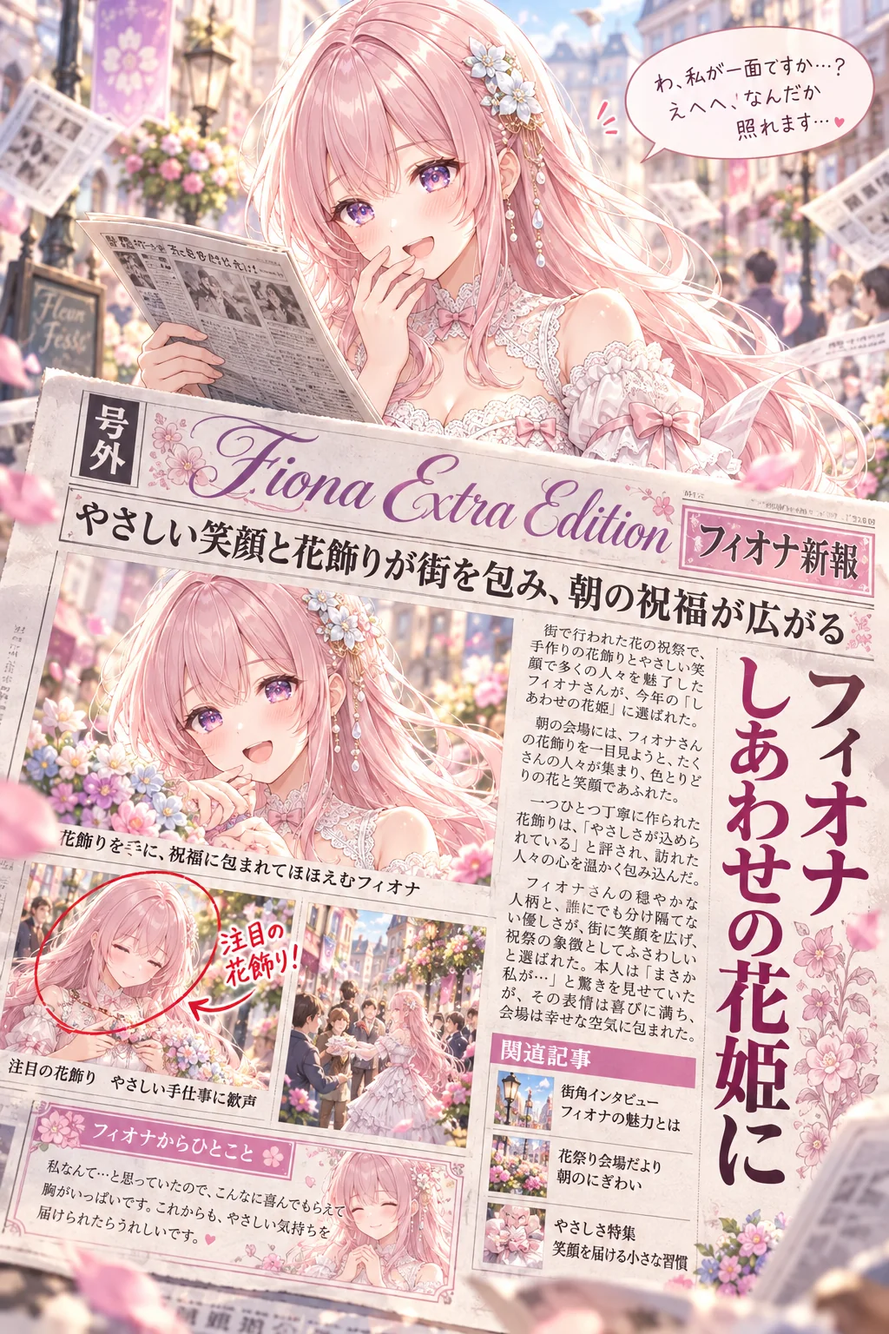
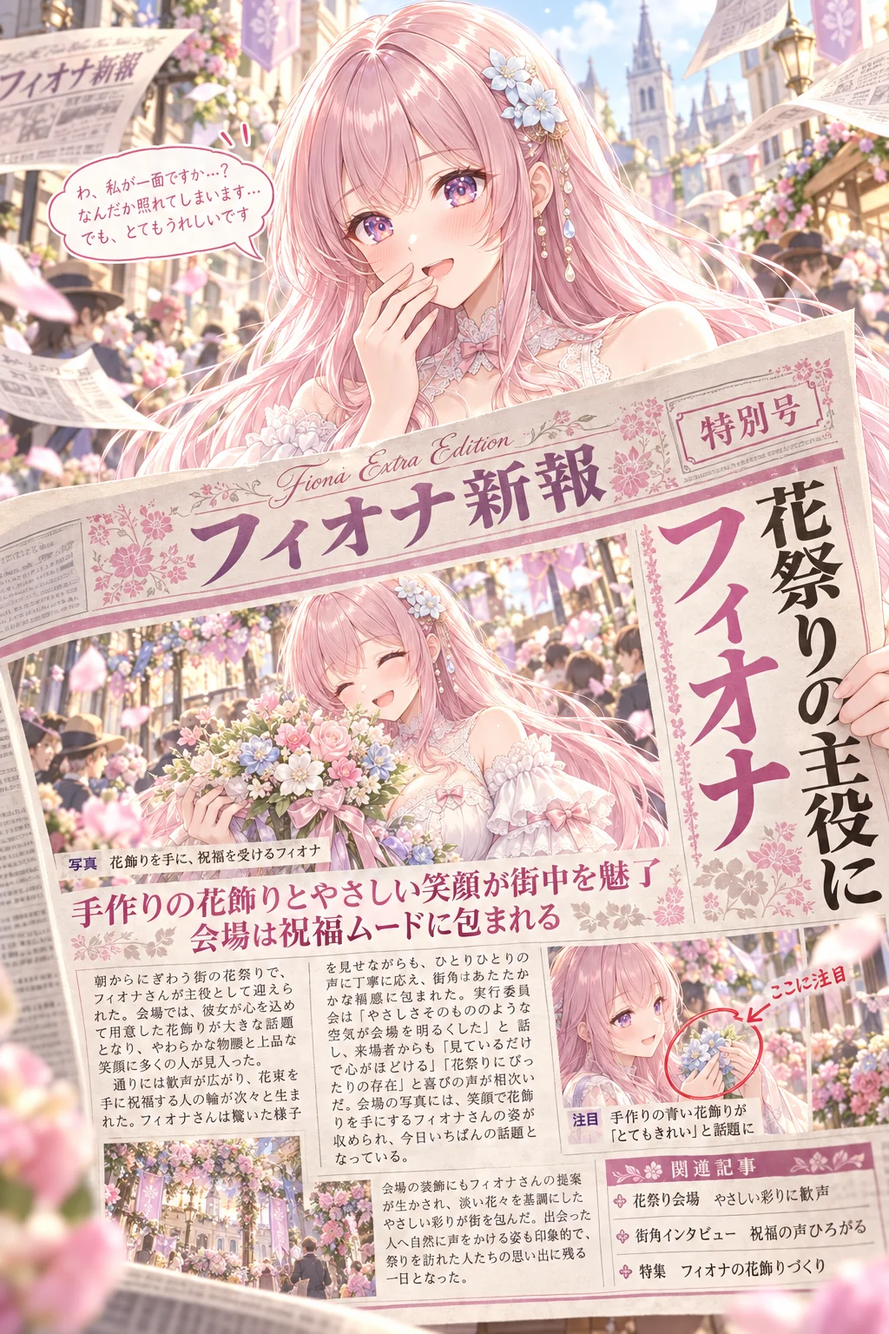
配布 10/18 号外：フィオナ作例を焼き直し3回目（手・日付なし）に差し替え

diff --git a/prompts/2026-10-18-gpt-j177g6tr.html b/prompts/2026-10-18-gpt-j177g6tr.html
@@ -45,7 +45,7 @@
 @media(max-width:560px){.ps-ba{grid-template-columns:1fr}.ps-ba .arr{transform:rotate(90deg);text-align:center}.ps-vars,.ps-vars tbody,.ps-vars tr,.ps-vars th,.ps-vars td{display:block;width:auto;white-space:normal}.ps-vars tr:first-child{display:none}.ps-vars tr{border-bottom:1px solid var(--ps-line);padding:4px 0}.ps-vars th,.ps-vars td{border:0;padding:6px 12px}}
 .ps{overflow-wrap:anywhere}.ps-vars td,.ps-vars th{overflow-wrap:anywhere}.ps img{max-width:100%}
 </style><!--ps-meta {"date": "2026-10-18", "title": "うちの子が一面トップの「号外」ができるプロンプト", "kind": "gpt", "nsfw": false, "summary": "キャラの絵と名前を入れるだけで、その子が一面トップの「号外」に。見出しも記事も写真のキャプションも、AIがその子に合わせて書いてくれます。", "thumb": "img/2026-10-18-gpt-j177g6tr/ex1.webp"}-->
-</head><body class="decor-page decor-bubble"><div class="page-decor" aria-hidden="true"><div class="decor-layer decor-bubble-layer"><i></i><i></i><i></i><i></i><i></i><i></i><i></i><i></i><i></i><i></i><i></i><i></i></div></div><header class="site-header"><div class="container"><a class="brand" href="../index.html"><span class="brand-script">Lupinus</span><span class="brand-sub">AI Bloom Sisters</span></a><button class="menu-toggle" aria-label="menu" onclick="document.getElementById('nav').classList.toggle('open')">≡</button><nav class="nav" id="nav"><a href="../index.html">Home</a><a href="../about.html">About</a><a href="../portfolio.html">Portfolio</a><a href="../gallery.html">Gallery</a><a href="../blog/index.html" class="active">Blog</a><a href="../sns.html">SNS</a><a href="../coming-soon.html">Contact</a></nav></div></header><main class="article"><header class="article-header"><div class="date">2026-10-18<span class="day-chip">プロンプト配布</span></div><h1>うちの子が一面トップの「号外」ができるプロンプト</h1></header><div class="article-body"><div class="ps"><p><span class="ps-badge">GPT-image-2 用</span><span class="ps-badge">2026-10-18</span></p><p class="ps-lead">ChatGPT（GPT-image-2）に自分のキャラの絵を1枚渡して、この文を貼るだけ。朝の街角に刷りたての号外が舞って、その一面トップを飾っているのは、うちの子。新聞の名前、縦書きの大見出し、記事、写真のキャプション、関連記事まで、AIがキャラを読み取って「今日その子に起きたうれしい出来事」を書いてくれます。焼くたびにニュースが変わるので、毎日ちがう号外に。名前のほかは空欄でもOK。色・服・背景・ポーズ、号外のニュースの中身を決めたいときは、その欄に書くだけです。</p><nav class="ps-toc" aria-label="目次"><p>📑 目次</p><ol><li><a href="#sec1">作例</a></li><li><a href="#sec2">3人のおしゃべり（うちの子の号外）</a></li><li><a href="#sec3">使い方（3ステップ）</a></li><li><a href="#sec4">プロンプト</a></li><li><a href="#sec5">書くところ</a></li><li><a href="#sec6">（おまけ）元絵を綺麗にしておくと、もっと綺麗に</a></li><li><a href="#sec7">メモ</a></li><li><a href="#sec8">配布ルール</a></li></ol></nav><h2 id="sec1">作例</h2><div class="ps-ex"><figure><img src="img/2026-10-18-gpt-j177g6tr/ex1.webp" alt="名前「フィオナ」だけ（ほかの欄は空欄）＝新聞の名前は「フィオナ新報」、大見出しは「フィオナ しあわせの花姫に」。街の祝祭で『しあわせの花姫』に選ばれた、という記事に、赤丸の「注目の花飾り！」の注釈まで。吹き出しは「わ、私が一面ですか…？ えへへ、なんだか照れます…」" loading="lazy"><figcaption>名前「フィオナ」だけ（ほかの欄は空欄）＝新聞の名前は「フィオナ新報」、大見出しは「フィオナ しあわせの花姫に」。街の祝祭で『しあわせの花姫』に選ばれた、という記事に、赤丸の「注目の花飾り！」の注釈まで。吹き出しは「わ、私が一面ですか…？ えへへ、なんだか照れます…」</figcaption></figure><figure><img src="img/2026-10-18-gpt-j177g6tr/ex2.webp" alt="名前「Iris」・テーマカラー「ひまわりの黄色とオレンジ」・ポーズ・追加の指示「吹き出しは一人称「あたし」で、元気なタメ口に」（服・背景は空欄）＝ロゴは「Iris Extra Edition」、新聞の名前はカタカナで「アイリス新報」。ニュースは「朝のひまわりフェスタでサプライズステージが大成功」。吹き出しは「えっ、あたしが一面！？ うれしすぎるんだけど！」" loading="lazy"><figcaption>名前「Iris」・テーマカラー「ひまわりの黄色とオレンジ」・ポーズ・追加の指示「吹き出しは一人称「あたし」で、元気なタメ口に」（服・背景は空欄）＝ロゴは「Iris Extra Edition」、新聞の名前はカタカナで「アイリス新報」。ニュースは「朝のひまわりフェスタでサプライズステージが大成功」。吹き出しは「えっ、あたしが一面！？ うれしすぎるんだけど！」</figcaption></figure><figure><img src="img/2026-10-18-gpt-j177g6tr/ex3.webp" alt="名前「ルピナス」・背景「夜のお祭りの屋台の並ぶ通り」・ポーズ・追加の指示「号外のニュースはお料理コンテストで優勝したこと。吹き出しは一人称「わたし」で、やさしいお姉さんの話し方に」（ほかの欄は空欄）＝夜店ののれんが並ぶ通りに。大見出しは「ルピナス 屋台料理コンテストで優勝」、優勝作は「月あかりの花しらべシチュー」" loading="lazy"><figcaption>名前「ルピナス」・背景「夜のお祭りの屋台の並ぶ通り」・ポーズ・追加の指示「号外のニュースはお料理コンテストで優勝したこと。吹き出しは一人称「わたし」で、やさしいお姉さんの話し方に」（ほかの欄は空欄）＝夜店ののれんが並ぶ通りに。大見出しは「ルピナス 屋台料理コンテストで優勝」、優勝作は「月あかりの花しらべシチュー」</figcaption></figure></div><p style="font-size:.82rem;color:var(--ps-ink)">※作例の画像の転載・保存しての再配布はご遠慮ください。</p><h2 id="sec2">3人のおしゃべり（うちの子の号外）</h2><div class="ps-chat"><img src="img/2026-10-18-gpt-j177g6tr/talk_fiona_shy.webp" alt="フィオナ" loading="lazy"><div><div class="who">フィオナ</div><div class="bub">あの……街の人たちが、みんな私の写真の載った紙を持っているんですけれど……</div></div></div><div class="ps-chat r"><img src="img/2026-10-18-gpt-j177g6tr/talk_lupinus_surprised.webp" alt="ルピナス" loading="lazy"><div><div class="who">ルピナス</div><div class="bub">号外〜、号外だよ〜！ 本日の一面トップは、なんと、フィオナ！</div></div></div><div class="ps-chat r"><img src="img/2026-10-18-gpt-j177g6tr/talk_iris_devious.webp" alt="アイリス" loading="lazy"><div><div class="who">アイリス</div><div class="bub">はいはい、記者会見はじめまーす！ 本日の主役のフィオナ、一面に載った今のお気持ちは！？</div></div></div><div class="ps-chat"><img src="img/2026-10-18-gpt-j177g6tr/talk_fiona_happy.webp" alt="フィオナ" loading="lazy"><div><div class="who">フィオナ</div><div class="bub">えっと……名前だけ書いたら「フィオナ新報」ができていて。街のお祭りで『しあわせの花姫』に選ばれた、なんだそうです</div></div></div><div class="ps-chat r"><img src="img/2026-10-18-gpt-j177g6tr/talk_lupinus_happy.webp" alt="ルピナス" loading="lazy"><div><div class="who">ルピナス</div><div class="bub">写真のキャプションまで「花飾りを手に、祝福に包まれてほほえむフィオナ」だって。記者さん、よく見てるね</div></div></div><div class="ps-chat r"><img src="img/2026-10-18-gpt-j177g6tr/talk_iris_smug.webp" alt="アイリス" loading="lazy"><div><div class="who">アイリス</div><div class="bub">あたしのも見て！ 「Iris」ってアルファベットで書いたのに、新聞の名前はちゃんと「アイリス新報」なの</div></div></div><div class="ps-chat"><img src="img/2026-10-18-gpt-j177g6tr/talk_fiona_surprised.webp" alt="フィオナ" loading="lazy"><div><div class="who">フィオナ</div><div class="bub">ロゴは英語で、日本語のところはカタカナ……きれいに分けてくれるんですね</div></div></div><div class="ps-chat r"><img src="img/2026-10-18-gpt-j177g6tr/talk_iris_laugh.webp" alt="アイリス" loading="lazy"><div><div class="who">アイリス</div><div class="bub">ニュースは「ひまわりフェスタのサプライズステージが大成功」！ テーマカラーの黄色とオレンジで、紙面がまぶしいんだから</div></div></div><div class="ps-chat r"><img src="img/2026-10-18-gpt-j177g6tr/talk_lupinus_smug.webp" alt="ルピナス" loading="lazy"><div><div class="who">ルピナス</div><div class="bub">わたしは背景を「夜のお祭りの屋台の並ぶ通り」にして、ポーズの欄に「お料理コンテストで優勝」って書いたの</div></div></div><div class="ps-chat"><img src="img/2026-10-18-gpt-j177g6tr/talk_fiona_happy.webp" alt="フィオナ" loading="lazy"><div><div class="who">フィオナ</div><div class="bub">お姉ちゃんの大見出しは「屋台料理コンテストで優勝」でした。優勝作の「月あかりの花しらべシチュー」、食べてみたいです</div></div></div><div class="ps-chat r"><img src="img/2026-10-18-gpt-j177g6tr/talk_iris_surprised.webp" alt="アイリス" loading="lazy"><div><div class="who">アイリス</div><div class="bub">やきそばとたこ焼きの屋台に囲まれて優勝してる……！ お姉ちゃん、いつの間にそんなに強くなったの</div></div></div><div class="ps-chat r"><img src="img/2026-10-18-gpt-j177g6tr/talk_lupinus_wink.webp" alt="ルピナス" loading="lazy"><div><div class="who">ルピナス</div><div class="bub">号外の中だけの話だよ。でも、ニュースは欄に書けば好きに決められるからね</div></div></div><div class="ps-chat"><img src="img/2026-10-18-gpt-j177g6tr/talk_fiona_thinking.webp" alt="フィオナ" loading="lazy"><div><div class="who">フィオナ</div><div class="bub">書かなければ、AIがその子に合いそうなうれしい出来事を考えてくれます。焼くたびにニュースが変わるので、毎日ちがう号外になりますね</div></div></div><div class="ps-chat r"><img src="img/2026-10-18-gpt-j177g6tr/talk_iris_laugh.webp" alt="アイリス" loading="lazy"><div><div class="who">アイリス</div><div class="bub">じゃあ明日は「アイリス、朝ごはんを三杯おかわり」の号外にしよっと！</div></div></div><div class="ps-chat r"><img src="img/2026-10-18-gpt-j177g6tr/talk_lupinus_exasperated.webp" alt="ルピナス" loading="lazy"><div><div class="who">ルピナス</div><div class="bub">それは号外を出すほどのニュースじゃないかな……</div></div></div><div class="ps-chat"><img src="img/2026-10-18-gpt-j177g6tr/talk_fiona_laugh.webp" alt="フィオナ" loading="lazy"><div><div class="who">フィオナ</div><div class="bub">ふふ。では三人の号外を並べて、一面トップの記念撮影をしましょうか</div></div></div><h2 id="sec3">使い方（3ステップ）</h2><ol class="ps-steps"><li>ChatGPT を開いて、画像を作れるモード（GPT-image-2）にする</li><li>自分のキャラの絵を1枚だけ添付する（自分の絵・使ってよい画像だけ。いつもの絵のままでOK。下の「おまけ」で元絵を作った人は元絵を）</li><li>下のプロンプトをワンタップでコピーして、いちばん上の「▼ ここに書く」の欄（色の付いたところ）にキャラの名前などを書いて送信する（名前のほかは空欄でもOK。服・背景・ポーズを変えたいときは、その欄に書くだけ）</li></ol><h2 id="sec4">プロンプト</h2><div class="ps-note" style="margin-bottom:12px"><b>書くのは「▼ ここに書く」の欄だけ</b><ul><li><mark style="background:var(--ps-soft);color:var(--ps-a);font-weight:700;border-bottom:2px dashed var(--ps-a);padding:0 4px">色の付いたところ</mark>（「：」のうしろ）に書くだけ。【 】は消さずにそのまま残してね</li><li>下の文章に出てくる【キャラの名前】などは書き換えなくてOK（AIが上の欄を読んでくれます）</li><li>任意の欄は空のままでも大丈夫（おまかせになります）</li><li>👗 <b>服・アクセサリー／背景／ポーズを変えたいときは、その欄に書くだけ</b>。欄に書いた内容が下の文章より優先されるように作ってあるので、下の文章は書き換えなくてOK。空欄なら、服とアクセサリーは添付した絵のまま、背景とポーズは下の文章のとおりになります。顔立ち・髪型・髪色・目の色は、いつも添付した絵のままです</li><li>💡 添付した絵と違う服にしたいときは、色と形まで具体的に書くと混ざりにくくなります（例：「白いニット」より「白いケーブル編みのニットと紺のプリーツスカート」）</li><li>🚫 添付する絵は<b>自分のキャラ・自分が権利を持つ画像だけ</b>。版権キャラ・他の人のキャラの画像は固く禁止です（下の「配布ルール」）</li></ul></div><div class="ps-box"><button class="ps-copy" type="button" data-target="ps-prompt">📋 ワンタップでコピー</button><p style="margin:0 0 8px;font-size:.82rem;color:var(--ps-a)">プロンプト</p><pre>添付した画像のキャラクターを読み取って、そのキャラが一面トップを飾る新聞の「号外」のイラストを作ってください。
+</head><body class="decor-page decor-bubble"><div class="page-decor" aria-hidden="true"><div class="decor-layer decor-bubble-layer"><i></i><i></i><i></i><i></i><i></i><i></i><i></i><i></i><i></i><i></i><i></i><i></i></div></div><header class="site-header"><div class="container"><a class="brand" href="../index.html"><span class="brand-script">Lupinus</span><span class="brand-sub">AI Bloom Sisters</span></a><button class="menu-toggle" aria-label="menu" onclick="document.getElementById('nav').classList.toggle('open')">≡</button><nav class="nav" id="nav"><a href="../index.html">Home</a><a href="../about.html">About</a><a href="../portfolio.html">Portfolio</a><a href="../gallery.html">Gallery</a><a href="../blog/index.html" class="active">Blog</a><a href="../sns.html">SNS</a><a href="../coming-soon.html">Contact</a></nav></div></header><main class="article"><header class="article-header"><div class="date">2026-10-18<span class="day-chip">プロンプト配布</span></div><h1>うちの子が一面トップの「号外」ができるプロンプト</h1></header><div class="article-body"><div class="ps"><p><span class="ps-badge">GPT-image-2 用</span><span class="ps-badge">2026-10-18</span></p><p class="ps-lead">ChatGPT（GPT-image-2）に自分のキャラの絵を1枚渡して、この文を貼るだけ。朝の街角に刷りたての号外が舞って、その一面トップを飾っているのは、うちの子。新聞の名前、縦書きの大見出し、記事、写真のキャプション、関連記事まで、AIがキャラを読み取って「今日その子に起きたうれしい出来事」を書いてくれます。焼くたびにニュースが変わるので、毎日ちがう号外に。名前のほかは空欄でもOK。色・服・背景・ポーズ、号外のニュースの中身を決めたいときは、その欄に書くだけです。</p><nav class="ps-toc" aria-label="目次"><p>📑 目次</p><ol><li><a href="#sec1">作例</a></li><li><a href="#sec2">3人のおしゃべり（うちの子の号外）</a></li><li><a href="#sec3">使い方（3ステップ）</a></li><li><a href="#sec4">プロンプト</a></li><li><a href="#sec5">書くところ</a></li><li><a href="#sec6">（おまけ）元絵を綺麗にしておくと、もっと綺麗に</a></li><li><a href="#sec7">メモ</a></li><li><a href="#sec8">配布ルール</a></li></ol></nav><h2 id="sec1">作例</h2><div class="ps-ex"><figure><img src="img/2026-10-18-gpt-j177g6tr/ex1.webp" alt="名前「フィオナ」だけ（ほかの欄は空欄）＝新聞の名前は「フィオナ新報」、大見出しは「花祭りの主役に フィオナ」。手作りの花飾りとやさしい笑顔が街中を魅了した、という記事に、赤丸の「ここに注目」の注釈まで。吹き出しは「わ、私が一面ですか…？ なんだか照れてしまいます… でも、とてもうれしいです」" loading="lazy"><figcaption>名前「フィオナ」だけ（ほかの欄は空欄）＝新聞の名前は「フィオナ新報」、大見出しは「花祭りの主役に フィオナ」。手作りの花飾りとやさしい笑顔が街中を魅了した、という記事に、赤丸の「ここに注目」の注釈まで。吹き出しは「わ、私が一面ですか…？ なんだか照れてしまいます… でも、とてもうれしいです」</figcaption></figure><figure><img src="img/2026-10-18-gpt-j177g6tr/ex2.webp" alt="名前「Iris」・テーマカラー「ひまわりの黄色とオレンジ」・ポーズ・追加の指示「吹き出しは一人称「あたし」で、元気なタメ口に」（服・背景は空欄）＝ロゴは「Iris Extra Edition」、新聞の名前はカタカナで「アイリス新報」。ニュースは「朝のひまわりフェスタでサプライズステージが大成功」。吹き出しは「えっ、あたしが一面！？ うれしすぎるんだけど！」" loading="lazy"><figcaption>名前「Iris」・テーマカラー「ひまわりの黄色とオレンジ」・ポーズ・追加の指示「吹き出しは一人称「あたし」で、元気なタメ口に」（服・背景は空欄）＝ロゴは「Iris Extra Edition」、新聞の名前はカタカナで「アイリス新報」。ニュースは「朝のひまわりフェスタでサプライズステージが大成功」。吹き出しは「えっ、あたしが一面！？ うれしすぎるんだけど！」</figcaption></figure><figure><img src="img/2026-10-18-gpt-j177g6tr/ex3.webp" alt="名前「ルピナス」・背景「夜のお祭りの屋台の並ぶ通り」・ポーズ・追加の指示「号外のニュースはお料理コンテストで優勝したこと。吹き出しは一人称「わたし」で、やさしいお姉さんの話し方に」（ほかの欄は空欄）＝夜店ののれんが並ぶ通りに。大見出しは「ルピナス 屋台料理コンテストで優勝」、優勝作は「月あかりの花しらべシチュー」" loading="lazy"><figcaption>名前「ルピナス」・背景「夜のお祭りの屋台の並ぶ通り」・ポーズ・追加の指示「号外のニュースはお料理コンテストで優勝したこと。吹き出しは一人称「わたし」で、やさしいお姉さんの話し方に」（ほかの欄は空欄）＝夜店ののれんが並ぶ通りに。大見出しは「ルピナス 屋台料理コンテストで優勝」、優勝作は「月あかりの花しらべシチュー」</figcaption></figure></div><p style="font-size:.82rem;color:var(--ps-ink)">※作例の画像の転載・保存しての再配布はご遠慮ください。</p><h2 id="sec2">3人のおしゃべり（うちの子の号外）</h2><div class="ps-chat"><img src="img/2026-10-18-gpt-j177g6tr/talk_fiona_shy.webp" alt="フィオナ" loading="lazy"><div><div class="who">フィオナ</div><div class="bub">あの……街の人たちが、みんな私の写真の載った紙を持っているんですけれど……</div></div></div><div class="ps-chat r"><img src="img/2026-10-18-gpt-j177g6tr/talk_lupinus_surprised.webp" alt="ルピナス" loading="lazy"><div><div class="who">ルピナス</div><div class="bub">号外〜、号外だよ〜！ 本日の一面トップは、なんと、フィオナ！</div></div></div><div class="ps-chat r"><img src="img/2026-10-18-gpt-j177g6tr/talk_iris_devious.webp" alt="アイリス" loading="lazy"><div><div class="who">アイリス</div><div class="bub">はいはい、記者会見はじめまーす！ 本日の主役のフィオナ、一面に載った今のお気持ちは！？</div></div></div><div class="ps-chat"><img src="img/2026-10-18-gpt-j177g6tr/talk_fiona_happy.webp" alt="フィオナ" loading="lazy"><div><div class="who">フィオナ</div><div class="bub">えっと……名前だけ書いたら「フィオナ新報」ができていて。花祭りの主役に選ばれた、なんだそうです</div></div></div><div class="ps-chat r"><img src="img/2026-10-18-gpt-j177g6tr/talk_lupinus_happy.webp" alt="ルピナス" loading="lazy"><div><div class="who">ルピナス</div><div class="bub">写真のキャプションまで「花飾りを手に、祝福を受けるフィオナ」だって。記者さん、よく見てるね</div></div></div><div class="ps-chat r"><img src="img/2026-10-18-gpt-j177g6tr/talk_iris_smug.webp" alt="アイリス" loading="lazy"><div><div class="who">アイリス</div><div class="bub">あたしのも見て！ 「Iris」ってアルファベットで書いたのに、新聞の名前はちゃんと「アイリス新報」なの</div></div></div><div class="ps-chat"><img src="img/2026-10-18-gpt-j177g6tr/talk_fiona_surprised.webp" alt="フィオナ" loading="lazy"><div><div class="who">フィオナ</div><div class="bub">ロゴは英語で、日本語のところはカタカナ……きれいに分けてくれるんですね</div></div></div><div class="ps-chat r"><img src="img/2026-10-18-gpt-j177g6tr/talk_iris_laugh.webp" alt="アイリス" loading="lazy"><div><div class="who">アイリス</div><div class="bub">ニュースは「ひまわりフェスタのサプライズステージが大成功」！ テーマカラーの黄色とオレンジで、紙面がまぶしいんだから</div></div></div><div class="ps-chat r"><img src="img/2026-10-18-gpt-j177g6tr/talk_lupinus_smug.webp" alt="ルピナス" loading="lazy"><div><div class="who">ルピナス</div><div class="bub">わたしは背景を「夜のお祭りの屋台の並ぶ通り」にして、ポーズの欄に「お料理コンテストで優勝」って書いたの</div></div></div><div class="ps-chat"><img src="img/2026-10-18-gpt-j177g6tr/talk_fiona_happy.webp" alt="フィオナ" loading="lazy"><div><div class="who">フィオナ</div><div class="bub">お姉ちゃんの大見出しは「屋台料理コンテストで優勝」でした。優勝作の「月あかりの花しらべシチュー」、食べてみたいです</div></div></div><div class="ps-chat r"><img src="img/2026-10-18-gpt-j177g6tr/talk_iris_surprised.webp" alt="アイリス" loading="lazy"><div><div class="who">アイリス</div><div class="bub">やきそばとたこ焼きの屋台に囲まれて優勝してる……！ お姉ちゃん、いつの間にそんなに強くなったの</div></div></div><div class="ps-chat r"><img src="img/2026-10-18-gpt-j177g6tr/talk_lupinus_wink.webp" alt="ルピナス" loading="lazy"><div><div class="who">ルピナス</div><div class="bub">号外の中だけの話だよ。でも、ニュースは欄に書けば好きに決められるからね</div></div></div><div class="ps-chat"><img src="img/2026-10-18-gpt-j177g6tr/talk_fiona_thinking.webp" alt="フィオナ" loading="lazy"><div><div class="who">フィオナ</div><div class="bub">書かなければ、AIがその子に合いそうなうれしい出来事を考えてくれます。焼くたびにニュースが変わるので、毎日ちがう号外になりますね</div></div></div><div class="ps-chat r"><img src="img/2026-10-18-gpt-j177g6tr/talk_iris_laugh.webp" alt="アイリス" loading="lazy"><div><div class="who">アイリス</div><div class="bub">じゃあ明日は「アイリス、朝ごはんを三杯おかわり」の号外にしよっと！</div></div></div><div class="ps-chat r"><img src="img/2026-10-18-gpt-j177g6tr/talk_lupinus_exasperated.webp" alt="ルピナス" loading="lazy"><div><div class="who">ルピナス</div><div class="bub">それは号外を出すほどのニュースじゃないかな……</div></div></div><div class="ps-chat"><img src="img/2026-10-18-gpt-j177g6tr/talk_fiona_laugh.webp" alt="フィオナ" loading="lazy"><div><div class="who">フィオナ</div><div class="bub">ふふ。では三人の号外を並べて、一面トップの記念撮影をしましょうか</div></div></div><h2 id="sec3">使い方（3ステップ）</h2><ol class="ps-steps"><li>ChatGPT を開いて、画像を作れるモード（GPT-image-2）にする</li><li>自分のキャラの絵を1枚だけ添付する（自分の絵・使ってよい画像だけ。いつもの絵のままでOK。下の「おまけ」で元絵を作った人は元絵を）</li><li>下のプロンプトをワンタップでコピーして、いちばん上の「▼ ここに書く」の欄（色の付いたところ）にキャラの名前などを書いて送信する（名前のほかは空欄でもOK。服・背景・ポーズを変えたいときは、その欄に書くだけ）</li></ol><h2 id="sec4">プロンプト</h2><div class="ps-note" style="margin-bottom:12px"><b>書くのは「▼ ここに書く」の欄だけ</b><ul><li><mark style="background:var(--ps-soft);color:var(--ps-a);font-weight:700;border-bottom:2px dashed var(--ps-a);padding:0 4px">色の付いたところ</mark>（「：」のうしろ）に書くだけ。【 】は消さずにそのまま残してね</li><li>下の文章に出てくる【キャラの名前】などは書き換えなくてOK（AIが上の欄を読んでくれます）</li><li>任意の欄は空のままでも大丈夫（おまかせになります）</li><li>👗 <b>服・アクセサリー／背景／ポーズを変えたいときは、その欄に書くだけ</b>。欄に書いた内容が下の文章より優先されるように作ってあるので、下の文章は書き換えなくてOK。空欄なら、服とアクセサリーは添付した絵のまま、背景とポーズは下の文章のとおりになります。顔立ち・髪型・髪色・目の色は、いつも添付した絵のままです</li><li>💡 添付した絵と違う服にしたいときは、色と形まで具体的に書くと混ざりにくくなります（例：「白いニット」より「白いケーブル編みのニットと紺のプリーツスカート」）</li><li>🚫 添付する絵は<b>自分のキャラ・自分が権利を持つ画像だけ</b>。版権キャラ・他の人のキャラの画像は固く禁止です（下の「配布ルール」）</li></ul></div><div class="ps-box"><button class="ps-copy" type="button" data-target="ps-prompt">📋 ワンタップでコピー</button><p style="margin:0 0 8px;font-size:.82rem;color:var(--ps-a)">プロンプト</p><pre>添付した画像のキャラクターを読み取って、そのキャラが一面トップを飾る新聞の「号外」のイラストを作ってください。
 号外の見出し、記事、写真のキャプション、関連記事、キャラからのひとことは、キャラの見た目や性格から「今日その子に起きたうれしい出来事」をあなたが考えて書いてください。
 
 ▼ ここに書く（「：」のうしろに書くだけ。【 】は消さずにそのまま。名前だけは必ず書く。ほかの空の欄はおまかせ）
@@ -153,7 +153,7 @@
 ・服のレースやフリル、刺繍、アクセサリーの宝石と金具まで細かく描く
 ・やわらかな光で輪郭をきれいに。上品で透明感のある配色、ハイエンドなアニメイラストの最高品質、超高精細
 ・縦長 2:3
-</textarea></div><div class="ps-note" style="margin-top:12px"><b>うまくいかない時</b><ul><li>元絵は、号外に載ったことに驚いて照れる絵に合わせて、腰から上で口もとに片手を添えて照れ笑いする形にしてあります。</li></ul></div><h2 id="sec7">メモ</h2><ul class="ps-rules"><li>見出し・記事・写真のキャプション・関連記事は、毎回AIがキャラに合わせて考えます（上の3枚でも、ニュースが「街の祝祭のしあわせの花姫」「ひまわりフェスタのステージ」「屋台料理コンテストの優勝」に分かれました）。</li><li>号外のニュースを決めたいときは【ポーズ・追加の指示】に「号外のニュースは〇〇」のように書いてください（ルピナスの作例は「お料理コンテストで優勝したこと」と書きました）。</li><li>絵の中のひとことの口調は、AIが絵から想像します。一人称や口癖を決めたいときは【ポーズ・追加の指示】に「吹き出しは〇〇（一人称）で」のように書いてください。</li><li>名前をアルファベットで書いても、日本語の新聞の名前と記事の中はカタカナになるように書いてあります（アイリスの作例は「Iris」と書いて「アイリス新報」になりました）。</li><li>値段や年号・日付・パーセントの数字は入らないようにしてあります。</li><li>記事の文字はとても細かいので、つぶれや誤字が出やすいところです。原寸で見て気になったら、下の一行で直してください。</li><li>服を変えたら顔や髪まで変わってしまったときは、同じチャットで「顔立ち・髪型・髪色・目の色は添付画像のままで、服とアクセサリーだけ【服・アクセサリー】にして描き直して」と送ってください。</li><li>文字がつぶれたり誤字があるときは、同じチャットで「文字の崩れと誤字を直して、もう一度」と送ると直りやすいです。</li><li>「■ 上の欄の使い方」と「■ 仕上がりの質」の段落は消さずにそのまま送ってください。欄に書いた内容が優先されるのと、刷りたてのインクのかすれや段組みの細かさ、舞う号外の紙は、ここで決まっています。</li></ul><h2 id="sec8">配布ルール</h2><ul class="ps-rules"><li>⭕ プロンプトの改変は自由です。</li><li>⭕ 生成した画像は SNS に投稿して大丈夫です。</li><li>❌ プロンプト文そのものの転載・再配布・販売はしないでください。</li><li>❌ 自作のプロンプトだと名乗ることはやめてください。</li><li>❌ このページの作例画像の無断転載はしないでください。</li><li class="ps-rights">🚫 <b>アニメ・漫画・ゲームなどの版権キャラクター（著作権・商標のあるキャラ）、他の人のキャラクターやイラスト、実在の人物の写真を添付画像にして使うことは固く禁止します。</b>版権キャラの名前や、版権キャラの LoRA を入れて使うことも禁止です。</li><li>✅ 添付してよいのは、<b>自分で作ったキャラクター・自分が権利を持つ画像</b>（または権利者から使ってよいと言われた画像）だけです。</li><li>⚠ 生成した画像の使い方（投稿・公開など）は、使った人の責任でお願いします。権利の問題が起きても、配布者は責任を負えません。</li><li>💌 使ったら <b>#ルピナスプロンプト</b> を付けて見せてくれたら、とても嬉しいです（任意です）。</li></ul><p class="ps-bn-ask" style="margin:22px 0 0;font-size:.92rem">📚 これまでの配布プロンプト（バックナンバー）が見たい方は、直接ルピナスまでお気軽にお問い合わせください。</p></div></div><p id="ps-views" hidden style="text-align:center;font-size:12px;opacity:.55;margin:22px 0 6px"></p></main><footer class="site-footer"><div class="container"><div class="brand-script">Lupinus Rossetti</div><p class="tagline">AI Bloom Sisters &mdash; flower language: imagination</p><div class="sns-row"><a class="sns-link" href="https://x.com/irisfionaAIBS" target="_blank" rel="noopener"><span class="dot"></span>X (Twitter)</a><a class="sns-link" href="https://www.youtube.com/@AIBloomSisters" target="_blank" rel="noopener"><span class="dot"></span>YouTube</a><a class="sns-link" href="https://note.com/rupi_airupi" target="_blank" rel="noopener"><span class="dot"></span>note</a><a class="sns-link" href="https://lupinus-rossetti.fanbox.cc/" target="_blank" rel="noopener"><span class="dot"></span>FANBOX</a></div><p class="copy">&copy; 2026 AI Bloom Sisters. All rights reserved.</p><p style="font-size:.78em;color:var(--ink-faint);margin-top:8px"><a href="../privacy.html" style="color:var(--ink-faint)">プライバシーポリシー</a>　<a href="../stream-info.html" style="color:var(--ink-faint)">配信のご案内</a></p></div></footer><script>(function(){if(window.matchMedia&&window.matchMedia('(prefers-reduced-motion: reduce)').matches)return;var els=document.querySelectorAll('.reveal');if(!els.length||!('IntersectionObserver'in window))return;var io=new IntersectionObserver(function(es){es.forEach(function(e){if(e.isIntersecting){e.target.classList.add('is-visible');io.unobserve(e.target);}});},{rootMargin:'0px 0px -10% 0px'});els.forEach(function(el){io.observe(el);});})();</script><script>window.goatcounter={path:function(p){return location.host+p}};</script>
+</textarea></div><div class="ps-note" style="margin-top:12px"><b>うまくいかない時</b><ul><li>元絵は、号外に載ったことに驚いて照れる絵に合わせて、腰から上で口もとに片手を添えて照れ笑いする形にしてあります。</li></ul></div><h2 id="sec7">メモ</h2><ul class="ps-rules"><li>見出し・記事・写真のキャプション・関連記事は、毎回AIがキャラに合わせて考えます（上の3枚でも、ニュースが「花祭りの主役」「ひまわりフェスタのステージ」「屋台料理コンテストの優勝」に分かれました）。</li><li>号外のニュースを決めたいときは【ポーズ・追加の指示】に「号外のニュースは〇〇」のように書いてください（ルピナスの作例は「お料理コンテストで優勝したこと」と書きました）。</li><li>絵の中のひとことの口調は、AIが絵から想像します。一人称や口癖を決めたいときは【ポーズ・追加の指示】に「吹き出しは〇〇（一人称）で」のように書いてください。</li><li>名前をアルファベットで書いても、日本語の新聞の名前と記事の中はカタカナになるように書いてあります（アイリスの作例は「Iris」と書いて「アイリス新報」になりました）。</li><li>値段や年号・日付・パーセントの数字は入らないようにしてあります。</li><li>記事の文字はとても細かいので、つぶれや誤字が出やすいところです。原寸で見て気になったら、下の一行で直してください。</li><li>服を変えたら顔や髪まで変わってしまったときは、同じチャットで「顔立ち・髪型・髪色・目の色は添付画像のままで、服とアクセサリーだけ【服・アクセサリー】にして描き直して」と送ってください。</li><li>文字がつぶれたり誤字があるときは、同じチャットで「文字の崩れと誤字を直して、もう一度」と送ると直りやすいです。</li><li>「■ 上の欄の使い方」と「■ 仕上がりの質」の段落は消さずにそのまま送ってください。欄に書いた内容が優先されるのと、刷りたてのインクのかすれや段組みの細かさ、舞う号外の紙は、ここで決まっています。</li></ul><h2 id="sec8">配布ルール</h2><ul class="ps-rules"><li>⭕ プロンプトの改変は自由です。</li><li>⭕ 生成した画像は SNS に投稿して大丈夫です。</li><li>❌ プロンプト文そのものの転載・再配布・販売はしないでください。</li><li>❌ 自作のプロンプトだと名乗ることはやめてください。</li><li>❌ このページの作例画像の無断転載はしないでください。</li><li class="ps-rights">🚫 <b>アニメ・漫画・ゲームなどの版権キャラクター（著作権・商標のあるキャラ）、他の人のキャラクターやイラスト、実在の人物の写真を添付画像にして使うことは固く禁止します。</b>版権キャラの名前や、版権キャラの LoRA を入れて使うことも禁止です。</li><li>✅ 添付してよいのは、<b>自分で作ったキャラクター・自分が権利を持つ画像</b>（または権利者から使ってよいと言われた画像）だけです。</li><li>⚠ 生成した画像の使い方（投稿・公開など）は、使った人の責任でお願いします。権利の問題が起きても、配布者は責任を負えません。</li><li>💌 使ったら <b>#ルピナスプロンプト</b> を付けて見せてくれたら、とても嬉しいです（任意です）。</li></ul><p class="ps-bn-ask" style="margin:22px 0 0;font-size:.92rem">📚 これまでの配布プロンプト（バックナンバー）が見たい方は、直接ルピナスまでお気軽にお問い合わせください。</p></div></div><p id="ps-views" hidden style="text-align:center;font-size:12px;opacity:.55;margin:22px 0 6px"></p></main><footer class="site-footer"><div class="container"><div class="brand-script">Lupinus Rossetti</div><p class="tagline">AI Bloom Sisters &mdash; flower language: imagination</p><div class="sns-row"><a class="sns-link" href="https://x.com/irisfionaAIBS" target="_blank" rel="noopener"><span class="dot"></span>X (Twitter)</a><a class="sns-link" href="https://www.youtube.com/@AIBloomSisters" target="_blank" rel="noopener"><span class="dot"></span>YouTube</a><a class="sns-link" href="https://note.com/rupi_airupi" target="_blank" rel="noopener"><span class="dot"></span>note</a><a class="sns-link" href="https://lupinus-rossetti.fanbox.cc/" target="_blank" rel="noopener"><span class="dot"></span>FANBOX</a></div><p class="copy">&copy; 2026 AI Bloom Sisters. All rights reserved.</p><p style="font-size:.78em;color:var(--ink-faint);margin-top:8px"><a href="../privacy.html" style="color:var(--ink-faint)">プライバシーポリシー</a>　<a href="../stream-info.html" style="color:var(--ink-faint)">配信のご案内</a></p></div></footer><script>(function(){if(window.matchMedia&&window.matchMedia('(prefers-reduced-motion: reduce)').matches)return;var els=document.querySelectorAll('.reveal');if(!els.length||!('IntersectionObserver'in window))return;var io=new IntersectionObserver(function(es){es.forEach(function(e){if(e.isIntersecting){e.target.classList.add('is-visible');io.unobserve(e.target);}});},{rootMargin:'0px 0px -10% 0px'});els.forEach(function(el){io.observe(el);});})();</script><script>window.goatcounter={path:function(p){return location.host+p}};</script>
 <script data-goatcounter="https://aibs-prompts.goatcounter.com/count" async src="//gc.zgo.at/count.js"></script><script>window.psCopyBind=function(root){root.querySelectorAll('.ps-copy').forEach(function(b){
 b.addEventListener('click',function(){var t=document.getElementById(b.getAttribute('data-target'));
 if(window.goatcounter&&goatcounter.count)goatcounter.count({path:'copy-'+location.host+location.pathname+'#'+b.getAttribute('data-target'),title:'プロンプトをコピー',event:true});
